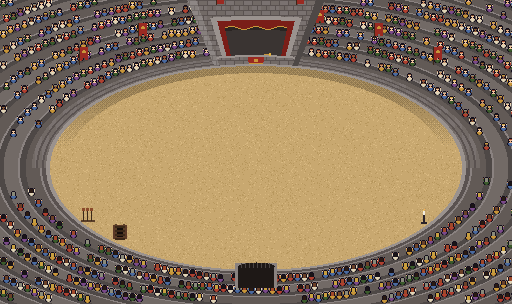
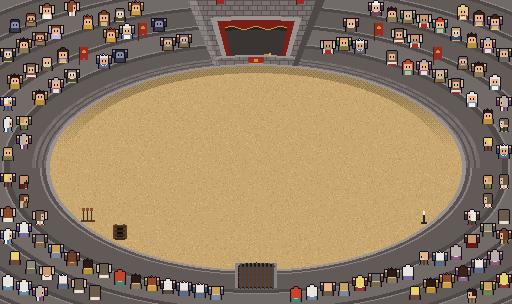
The Colosseum crowd at regular size, nobody overlapping anything; the gate barred
The spectators are the World's own townsfolk at full size (unarmed, no props), sitting on deeper tiers and facing
the sand, arms up when they cheer. Every seat is checked clear at full cheering height before anyone sits in it:
of everyone else, the arena wall, the banners, the commentator's box, the gate and the picture's edge. The great gate
is shut, timber behind an iron portcullis.

Claude-Session: https://claude.ai/code/session_01M3Peeuj4v63JAjidnU8Moq

diff --git a/EPISODES.md b/EPISODES.md
@@ -82,8 +82,10 @@ don't follow the crime (twenty, then *one*, then fifty), and the last one gets a
   Barnaby is a ringmaster now (top hat, red tailcoat, moustache), and a small guy (`short`: stubby legs), here and in Warrior City.
 - **The Colosseum** (author, Oct 6, 2026: "look at the arena outside looking in"): the arena (`the-pit`) is drawn as the
   inside of the oval Warrior City shows from without, wider (32×19, two rows of stands over the box), open to the sky: sand, a low stone wall, tiers
-  packed with the crowd (little pixel people in the walkers' style, outlined, seven pixels wide, faces toward the sand and backs on the near side, on their feet and
-  cheering every other beat: a second picture, `the-pit-cheer.png`, `cheer` on the map), the Crown's red banners with the gold fist, the great gate at the bottom and a trapdoor down
+  packed with the crowd (the walkers' own townsfolk, the size of everyone else in the World, author: "regular";
+  nobody overlapping anybody, the wall, a banner, the box or the gate, since each seat is checked clear at full cheering
+  height first; faces toward the sand and backs on the near side, on their feet and
+  cheering every other beat: a second picture, `the-pit-cheer.png`, `cheer` on the map), the Crown's red banners with the gold fist, the great gate at the bottom (shut: bars and a portcullis, author) and a trapdoor down
   to the cells (`drawArena` in `scripts/world-art.mjs`, `floor: "sand"`). Everyone moved with it (`dungeon.ts`
   `BRANNOC_FAINTED`, `SAND_MIDDLE`; the exits in `progress.ts`). Spectators on the sand (the crowd, the Warden, the
   three) are `passable`, so every fight still balances (fights.test).
